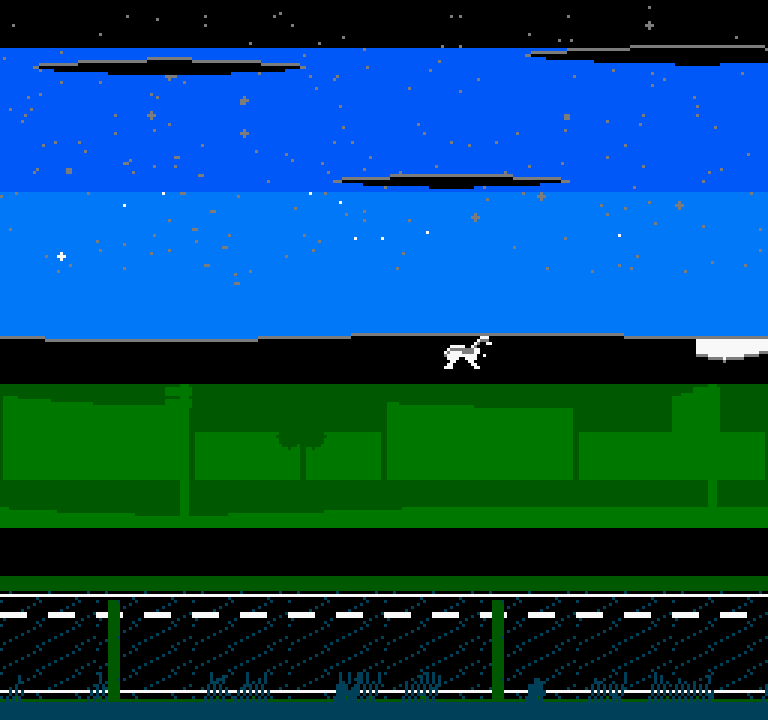
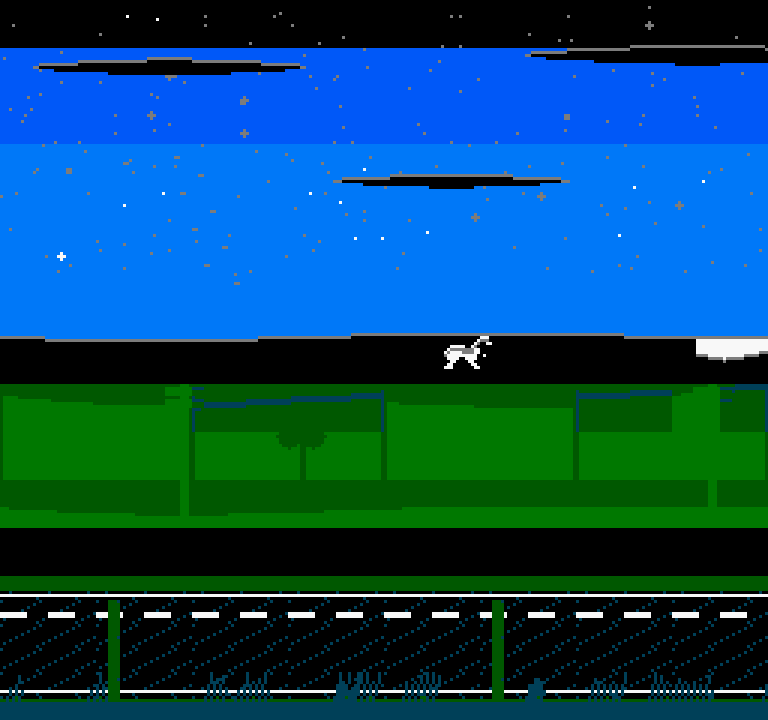
ART-REPRO-SCENE: the scene palette report and the title world preview reproduce their committed output (card t_933d8840)
Two committed artifacts under output/ did not survive a rebuild.

1. output/scene_palettes.json carried the scratch directory the composed frame was written to
   (C:\...\Temp\pp_title_w4ipudnh\frame.png), and tempfile.mkdtemp names a new directory on every
   run. So tools/check_scene_palettes.py wrote different bytes each time, and
   tests/test_scene_palettes.py, which regenerates the report on every pass, left a git diff behind
   every time it ran. The report now records the file's own name (frame.png, ship_stack.png), which
   is what a reader needs and what does not change. Two consecutive runs are now byte identical.

2. output/ts2_world_preview.png was stale: the committed copy (7303 bytes) is not what
   tools/art/make_title_world.py writes from the tree that commit 30436d0 shipped. The regenerated
   preview (7447 bytes) is reproducible: three runs in a clean extraction of HEAD and one run in the
   worktree all produce the same bytes, sha256 stable, and a second pass changes nothing. The
   difference is 36576 of 552960 pixels, x 0..767, y 15..431 at the 3x scale, and it is a band
   palette pick, not a new colour entering the frame:
     #0058f8 -> #0078f8 on 34074 px (the sky band, scene_title.json bg0 and bg1, both legal)
     #005800 -> #406458 on 2457 px (the lower band)
     #7c7c7c -> #f8f8f8 on 45 px (the moon at full white)
   The frame stays inside the title budget: make_title_world reports the colour budget, the seam and
[…]

diff --git a/tools/check_scene_palettes.py b/tools/check_scene_palettes.py
@@ -104,7 +104,11 @@ def check_title(root: str, report: dict) -> list[str]:
     frame_path = os.path.join(tempfile.mkdtemp(prefix="pp_title_"), "frame.png")
     scene_palette.compose_frame(root, frame_path)
     code, text = composite_check(frame_path)
-    report["title_frame"] = {"frame": frame_path, "exit": code, "report": text.strip().splitlines()}
+    # The report names the file and not the scratch directory it was composed in: a temp directory name changes on
+    # every run, so recording one would mean this report could never be regenerated byte for byte, and
+    # output/scene_palettes.json is committed (card t_933d8840).
+    report["title_frame"] = {"frame": os.path.basename(frame_path), "exit": code,
+                             "report": text.strip().splitlines()}
     if code != 0:
         failures.append("title: the composed background frame fails nes_composite_check.py (exit %d)" % code)
 
@@ -239,7 +243,10 @@ def check_ship(root: str, report: dict) -> list[str]:
     frame_path = os.path.join(tempfile.mkdtemp(prefix="pp_ship_"), "ship_stack.png")
     stack.save(frame_path, "PNG")
     code, text = composite_check(frame_path)
-    report["ship_frame"] = {"frame": frame_path, "exit": code, "report": text.strip().splitlines()}
+    # Basename for the same reason as the title frame above: this report is committed, so it may not carry a name that
+    # changes on every run.
+    report["ship_frame"] = {"frame": os.path.basename(frame_path), "exit": code,
+                            "report": text.strip().splitlines()}
     if code != 0:
         failures.append("ship: the tiled sheet frame fails nes_composite_check.py (exit %d)" % code)
     return failures
